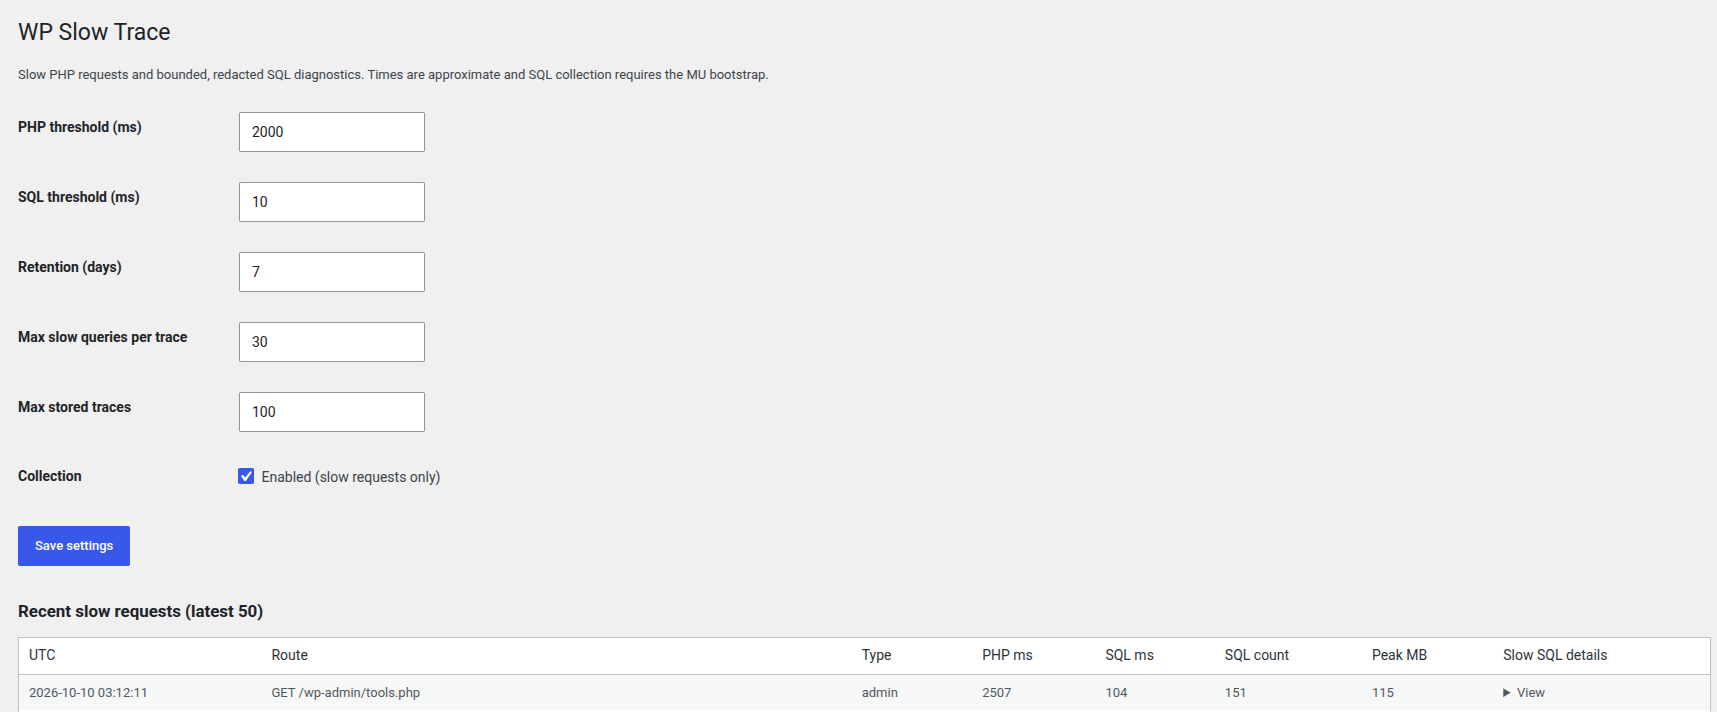
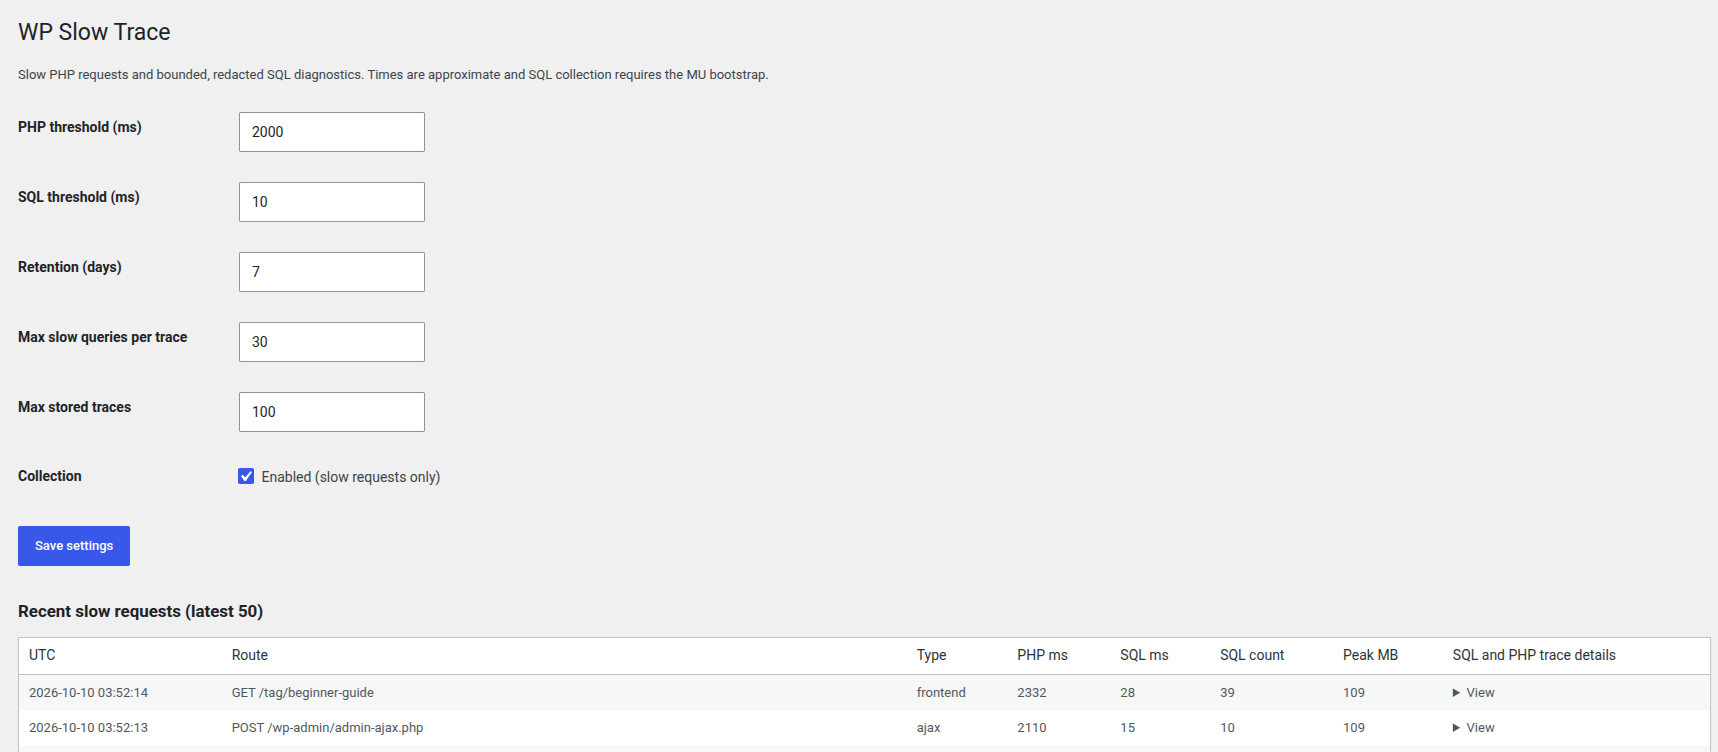
Update WP Slow Trace v1.3.0 - Added Cli Commands

diff --git a/wordpress/plugins/WPSlowTrace/README.md b/wordpress/plugins/WPSlowTrace/README.md
@@ -1,29 +1,45 @@
-# WP Slow Trace 1.0.0
+# WP Slow Trace v1.3.0
 
-Installable WordPress plugin (PHP 7.4+). Defaults: 2000 ms slow PHP threshold, 100 ms SQL threshold, 7 days retention, slow requests only, max 30 slow SQL entries per trace, max 10,000 traces retained. Administrators access **Tools → WP Slow Trace**.
+Self-contained WordPress slow-request diagnostics. No PHP-FPM configuration or WP-CLI imports required.
 
 ![WP Slow Trace Dashboard](image/dashboard-wp-slow-trace.png)
 
 ## Install
+1. Upload the ZIP through Plugins > Add New > Upload Plugin and activate.
+2. Optionally copy `mu-plugin/wp-slow-trace-bootstrap.php` to `wp-content/mu-plugins/` to collect SQL query timings. (For reliable query collection from earliest bootstrap, define `SAVEQUERIES` in wp-config.php; this incurs overhead.)
+3. Visit Tools > WP Slow Trace. Defaults: PHP 2000 ms, SQL 100 ms, retention 7 days, slow requests only.
 
-1. Upload the `wp-slow-trace` folder as a ZIP through **Plugins → Add New → Upload Plugin**, then activate. Alternatively extract it under `wp-content/plugins/` and activate.
-2. For SQL query timing, copy `mu-plugin/wp-slow-trace-bootstrap.php` to `wp-content/mu-plugins/wp-slow-trace-bootstrap.php` (create `mu-plugins` if needed). This must be a direct file, not nested inside a folder.
-3. Confirm `SAVEQUERIES` is not set to `false` in `wp-config.php` or elsewhere. For earliest query capture, define `SAVEQUERIES` as true in `wp-config.php` **before** WordPress bootstrap instead of relying on the MU file. Warning: query collection incurs overhead on every request, even fast ones; enable only for bounded diagnostic windows. Remove/disable `SAVEQUERIES` when not troubleshooting.
-4. Go to **Tools → WP Slow Trace**. The plugin automatically records requests taking at least 2 seconds and purges entries older than 7 days via WP-Cron. On low-traffic sites, WP-Cron may run late. For strict retention, schedule WP-Cron externally.
-5. For server-side PHP-FPM slow stack traces, follow `docs/PHP-FPM.md` and configure the correct PHP-FPM pool separately. No automatic FPM log ingestion is included.
+## PHP trace detail
+For completed slow requests, the dashboard includes WordPress lifecycle checkpoints (hook name, elapsed time since request start, memory) alongside SQL query caller information. These checkpoints are not function-level stack traces or exclusive callback timings. Requests hung indefinitely, native extension stalls, and arbitrary function-level execution cannot be traced solely from a conventional plugin.
 
-## Security / limitations
+## Production notes
+This plugin stores only paths without query strings, redacts SQL literals on a best-effort basis, and limits retained rows. SQL query callers can contain file paths. Restrict dashboard access to trusted administrators. SQL tracing uses WordPress SAVEQUERIES and adds overhead. WordPress cron cleanup runs when WordPress receives traffic. Test in staging first.
 
-- Only `manage_options` users can view/change traces; all actions use nonces. Query SQL string/number literals are masked best-effort. This is **not** a full SQL parser and cannot guarantee removal of all sensitive data (e.g., identifiers, comments, encoded data, unquoted values, caller strings). Treat stored traces as sensitive and restrict database backups/access.
-- Query capture is opt-in through `SAVEQUERIES`. Query collection has unavoidable memory/CPU overhead and captures all queries in PHP memory before the slow-only persistence decision. Avoid leaving it enabled indefinitely on high-traffic production sites.
-- Records store the path only (no URL query string, POST body, cookies, user identity, or IP). Some paths may still contain sensitive tokens or IDs. The SQL caller string may include filesystem paths.
-- Only completed/shutting-down PHP requests can write traces. Fatal errors may still reach shutdown; OOM, hard kill, worker crashes and blocked workers may not. For those, use PHP-FPM slowlogs and OS-level diagnostics.
-- `sql_total_ms` reflects queries visible to `$wpdb`, not direct PDO/mysqli calls. DB tracing includes the caller string from WordPress, not a full per-query PHP backtrace. Plugin does not implement continuous function-level PHP profiling; PHP-FPM slowlogs provide sampled PHP stack traces for slow workers.
-- Collection of SQL timings is unavailable if `SAVEQUERIES` was not enabled early enough. WordPress core and other plugins can alter query recording.
-- This version intentionally enforces **slow-only** mode, with no unrestricted capture-all mode.
-- Uninstalling/deactivating does not erase diagnostic records automatically. Use **Delete all traces** before uninstalling if desired.
+## Upgrading from v1.1
+Install this version over the previous version. The old PHP-FPM traces table is not dropped automatically, to avoid deleting existing data. If you previously installed PHP-FPM settings, remove those separately; they are no longer used.
 
-## Compatibility
+## WP-CLI commands (v1.3.0)
 
-WordPress 6.x, PHP 7.4+ (targeted; test in staging with your WordPress and PHP version). MariaDB/MySQL using WordPress `$wpdb`. Multisite creates tables per site on activation for that site; network-wide multisite activation and central reporting are not implemented.
-~                                                                                 
+Run from the WordPress installation directory after activating the plugin:
+
+```bash
+wp slow-trace status
+wp slow-trace report --since=24h --top=20
+wp slow-trace php --since=1h --top=20
+wp slow-trace sql --since=7d --top=20
+wp slow-trace hooks --since=24h --top=20
+wp slow-trace show 123
+wp slow-trace cleanup
+wp slow-trace report --since=24h --format=json
+wp slow-trace sql --since=1h --format=csv
+```
+
+`--since` accepts `h` (hours), `d` (days), or `w` (weeks), up to 365 days. `--top` accepts 1–500. `--format` accepts `table`, `json`, or `csv` for list commands. `show` supports `json` (default) or `table`. `status` supports `table`, `json`, or `csv`.
+
+Reports cover **stored, completed slow requests**, not active operating-system PHP processes. SQL reporting includes only slow SQL statements retained inside those recorded requests, and is limited by the per-request query cap. `hooks` displays elapsed WordPress lifecycle checkpoints, **not** per-hook exclusive execution time. A request may have slow SQL without being captured if its total PHP duration is below the PHP threshold. For query collection, install the optional MU bootstrap and verify `SAVEQUERIES` is enabled early enough; it adds overhead. `status` shows the SAVEQUERIES setting for the current CLI process, which may differ from web requests.
+
+For cron-based cleanup, WP-Cron already schedules cleanup. Optionally use `wp slow-trace cleanup` in a system cron, but no system cron is required.
+
+### Upgrading
+
+Upload the v1.3.0 ZIP over the existing plugin. Existing stored traces and settings are preserved. Test on staging before production. No database migration is required from v1.2.0.
